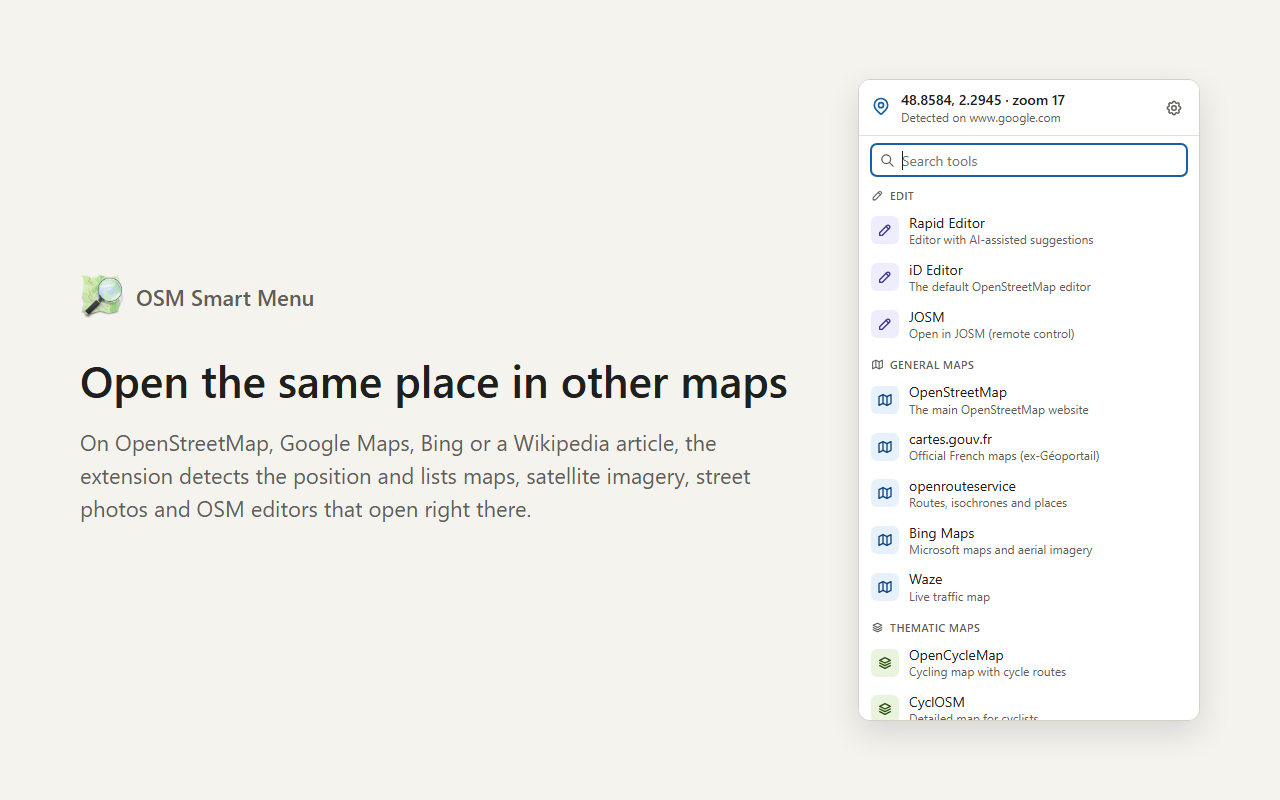
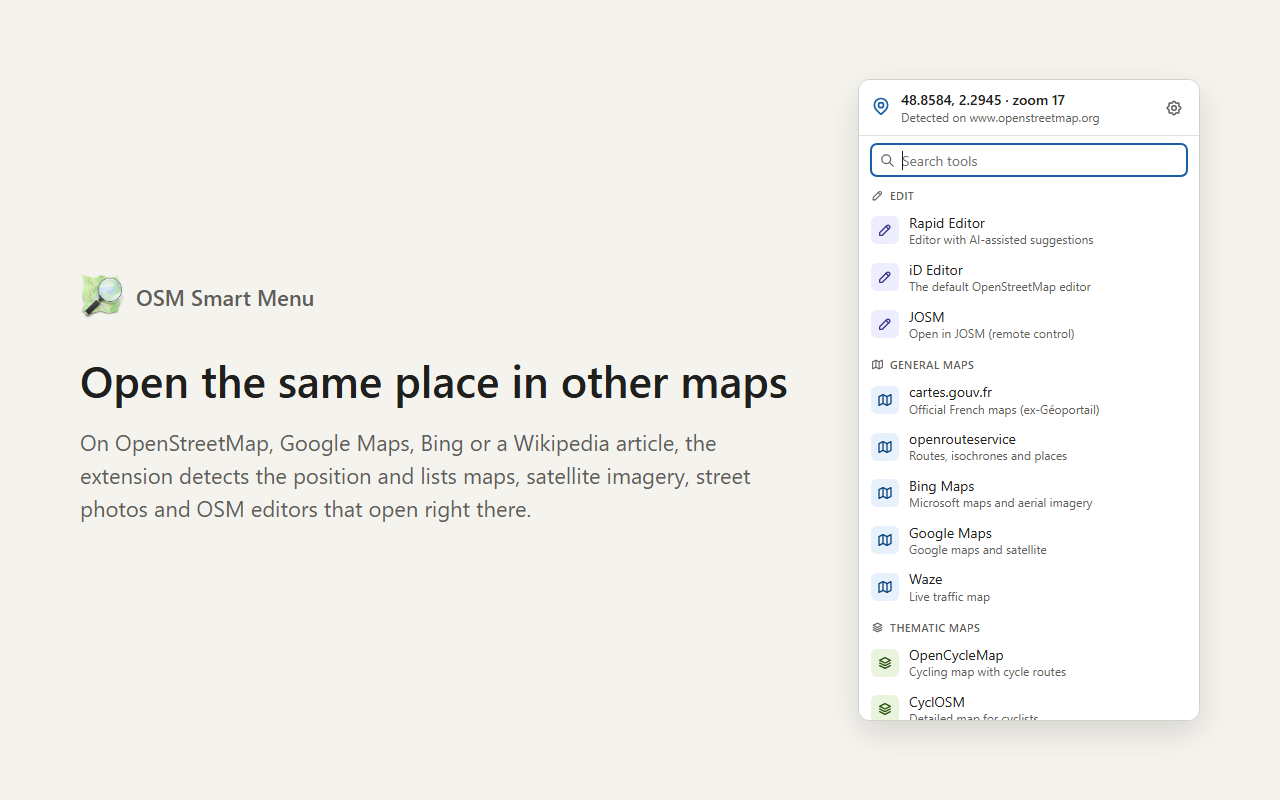
Store images: popup on OpenStreetMap first, Google Maps as a fifth screenshot

Changed region(s): [[0.6875, 0.4688, 0.875, 0.7188], [0.7812, 0.125, 0.8438, 0.1562]]

diff --git a/docs/store/render.js b/docs/store/render.js
@@ -16,7 +16,7 @@ const shots = [
     file: "screenshot-1-map.png",
     title: "Open the same place in other maps",
     subtitle: "On OpenStreetMap, Google Maps, Bing or a Wikipedia article, the extension detects the position and lists maps, satellite imagery, street photos and OSM editors that open right there.",
-    frame: harness({ page: "popup", locale: "en", tab: "https://www.google.com/maps/@48.8584,2.2945,17z" }),
+    frame: harness({ page: "popup", locale: "en", tab: "https://www.openstreetmap.org/#map=17/48.8584/2.2945" }),
   },
   {
     file: "screenshot-2-user.png",
@@ -38,6 +38,12 @@ const shots = [
     subtitle: "Turn tools on or off, reorder them, add your own links and move your settings to another browser.",
     frame: harness({ page: "options", locale: "en" }),
     width: 620,
+  },
+  {
+    file: "screenshot-5-google.png",
+    title: "Works from Google Maps too",
+    subtitle: "Jump from Google Maps or Bing straight to OpenStreetMap, an editor or recent satellite imagery, at the same place.",
+    frame: harness({ page: "popup", locale: "en", tab: "https://www.google.com/maps/@48.8584,2.2945,17z" }),
   },
 ];
 

diff --git a/docs/store-listing.md b/docs/store-listing.md
@@ -86,3 +86,4 @@ Chrome Web Store: 1280×800. Rendered images in [docs/store](store/) (`node docs
 2. Popup on a user page (OSMCha, How did you contribute, Osmose by user)
 3. Search filtering the list (e.g. "satellite")
 4. Options page with categories, descriptions and the settings backup
+5. Popup on Google Maps: jump to OpenStreetMap, editors and imagery
